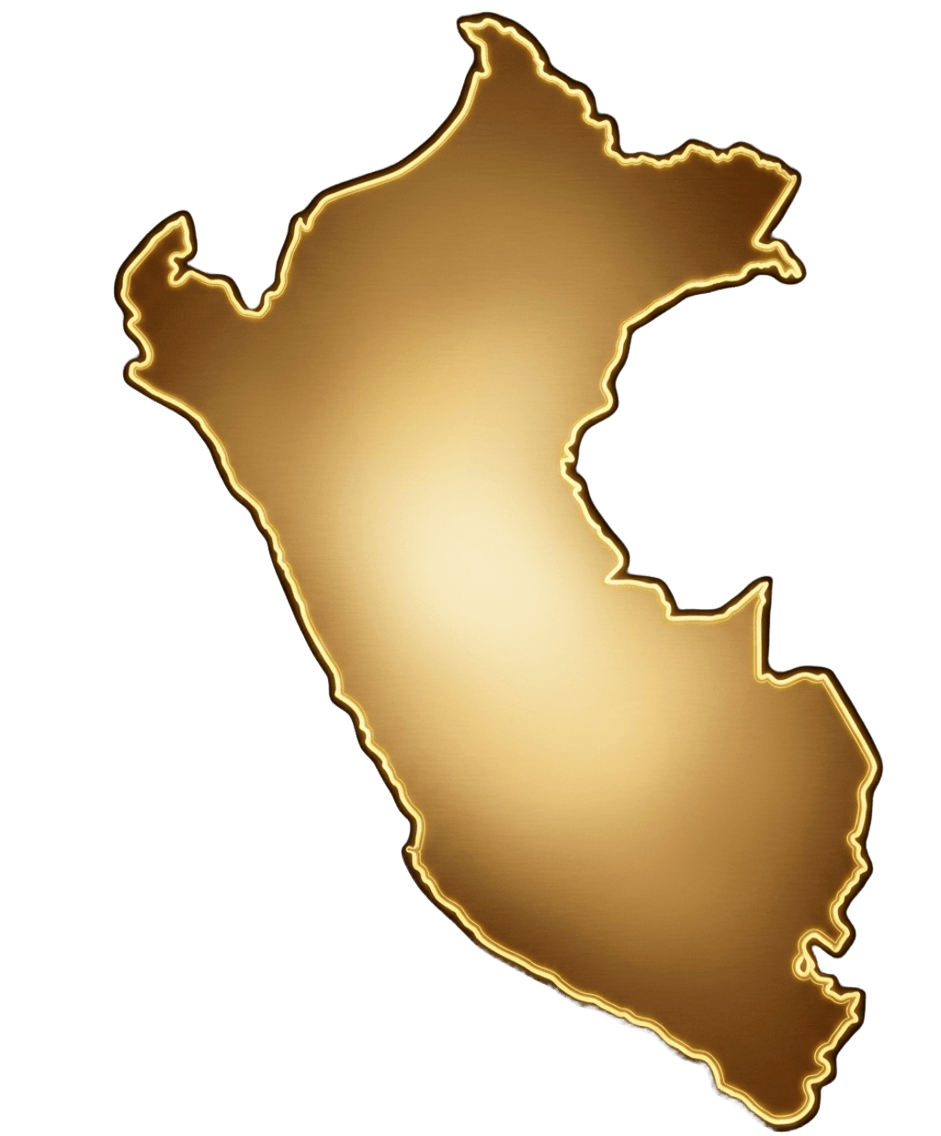
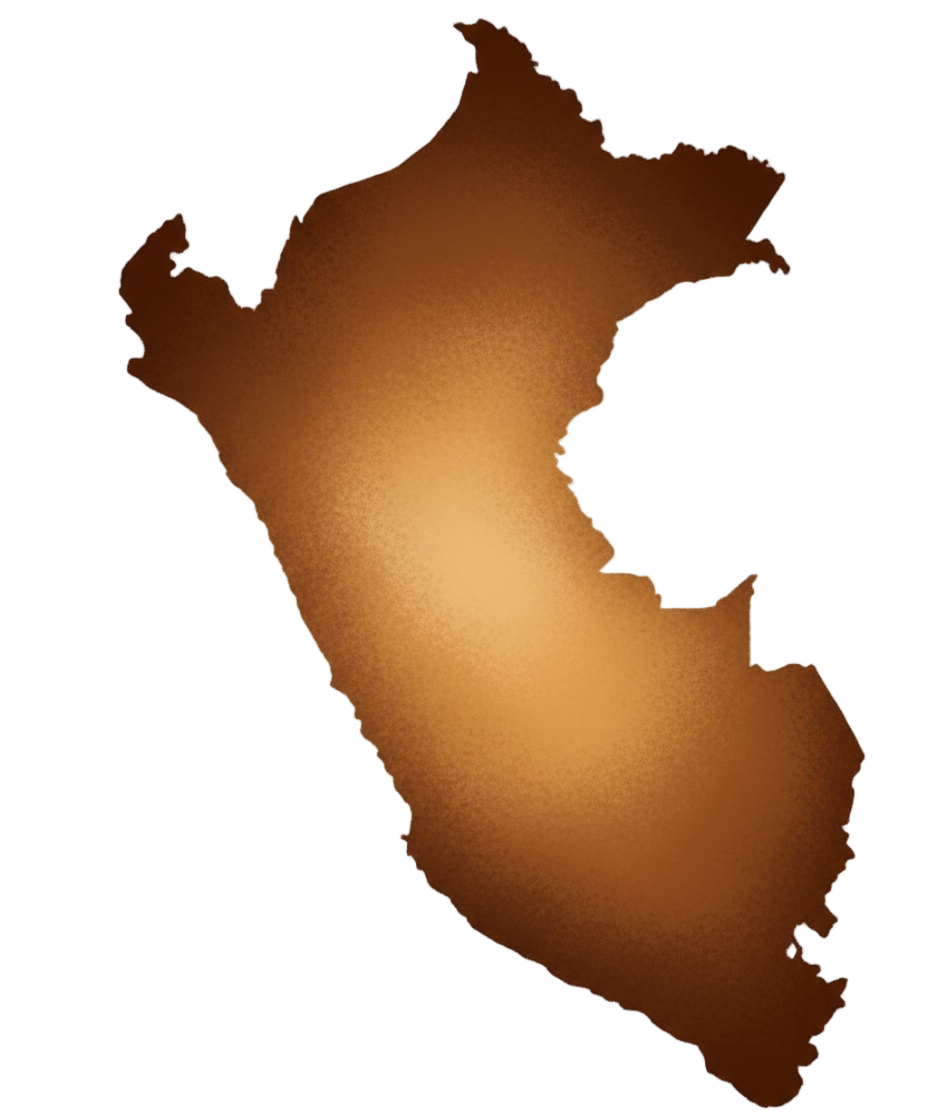
c

diff --git a/src/pages/home/components/Navbar.tsx b/src/pages/home/components/Navbar.tsx
@@ -1,153 +1,219 @@
-import { useState, useEffect } from 'react';
-import { useTranslation } from 'react-i18next';
-import i18n from '@/i18n';
+import { useState, useEffect } from "react";
+import { useTranslation } from "react-i18next";
+import { Link } from "react-router-dom";
+import i18n from "@/i18n";
+
+const LANGUAGES = [
+  { code: "es", label: "ES", flag: "🇵🇪" },
+  { code: "en", label: "EN", flag: "🇬🇧" },
+  { code: "de", label: "DE", flag: "🇩🇪" },
+  { code: "cs", label: "CS", flag: "🇨🇿" },
+];
 
 interface NavbarProps {
   cartCount: number;
   onCartOpen: () => void;
 }
 
-const languages = [
-  { code: 'es', label: 'Español', flag: '🇵🇪' },
-  { code: 'en', label: 'English', flag: '🇬🇧' },
-  { code: 'de', label: 'Deutsch', flag: '🇩🇪' },
-  { code: 'cs', label: 'Čeština', flag: '🇨🇿' },
-];
-
 export default function Navbar({ cartCount, onCartOpen }: NavbarProps) {
   const { t } = useTranslation();
   const [scrolled, setScrolled] = useState(false);
   const [langOpen, setLangOpen] = useState(false);
   const [mobileOpen, setMobileOpen] = useState(false);
-  const [currentLang, setCurrentLang] = useState('es');
+  const [currentLang, setCurrentLang] = useState("es");
 
   useEffect(() => {
-    const handleScroll = () => setScrolled(window.scrollY > 60);
-    window.addEventListener('scroll', handleScroll);
-    return () => window.removeEventListener('scroll', handleScroll);
+    const onScroll = () => setScrolled(window.scrollY > 60);
+    window.addEventListener("scroll", onScroll);
+    return () => window.removeEventListener("scroll", onScroll);
   }, []);
 
-  const handleLang = (code: string) => {
+  const changeLang = (code: string) => {
     i18n.changeLanguage(code);
     setCurrentLang(code);
     setLangOpen(false);
   };
 
   const scrollTo = (id: string) => {
-    document.getElementById(id)?.scrollIntoView({ behavior: 'smooth' });
+    const el = document.getElementById(id);
+    if (el) el.scrollIntoView({ behavior: "smooth" });
     setMobileOpen(false);
   };
 
-  const activeLang = languages.find(l => l.code === currentLang) || languages[0];
+  const navLinks = [
+    { key: "nav.producers", id: "producers" },
+    { key: "nav.catalog", id: "catalog" },
+    { key: "nav.story", id: "story" },
+    { key: "nav.contact", id: "contact" },
+  ];
+
+  const activeLang = LANGUAGES.find((l) => l.code === currentLang) || LANGUAGES[0];
 
   return (
-    <nav className={`fixed top-0 left-0 right-0 z-50 transition-all duration-500 ${scrolled ? 'bg-white shadow-sm' : 'bg-transparent'}`}>
-      <div className="max-w-7xl mx-auto px-4 md:px-8 flex items-center justify-between h-20">
-        {/* Logo */}
-        <a href="/" className="flex items-center gap-3 cursor-pointer">
+    <nav
+      className={`fixed top-0 left-0 right-0 z-30 transition-all duration-300 ${
+        scrolled ? "shadow-sm" : ""
+      }`}
+      style={{
+        background: scrolled ? "rgba(10,26,47,0.97)" : "transparent",
+        backdropFilter: scrolled ? "blur(12px)" : "none",
+      }}
+    >
+      <div className="max-w-7xl mx-auto px-4 md:px-8 h-12 md:h-14 flex items-center justify-between">
+        <button onClick={() => scrollTo("hero")} className="cursor-pointer">
           <img
-            src="https://public.readdy.ai/ai/img_res/1a7d4011-655d-43af-8ac4-7728ff0a084e.png"
-            alt="AYNI Logo"
-            className="h-12 w-auto object-contain"
+            src="/Coya/images/logo.png"
+            alt="COYA"
+            className="h-8 md:h-9 object-contain"
           />
-        </a>
+        </button>
 
-        {/* Desktop Nav */}
         <div className="hidden md:flex items-center gap-8">
-          {[
-            { key: 'nav_catalog', id: 'catalogo' },
-            { key: 'nav_artisans', id: 'productoras' },
-            { key: 'nav_story', id: 'impacto' },
-            { key: 'nav_contact', id: 'contacto' },
-          ].map(item => (
+          {navLinks.map((link) => (
             <button
-              key={item.key}
-              onClick={() => scrollTo(item.id)}
-              className={`text-sm font-medium tracking-wide transition-colors cursor-pointer whitespace-nowrap ${scrolled ? 'text-stone-700 hover:text-amber-700' : 'text-white/90 hover:text-white'}`}
+              key={link.key}
+              onClick={() => scrollTo(link.id)}
+              className="text-sm font-medium cursor-pointer transition-colors whitespace-nowrap"
+              style={{ color: "#F5E6D3", fontFamily: "'Jost', sans-serif", fontSize: "16px", fontWeight: 500, letterSpacing: "0.04em" }}
             >
-              {t(item.key)}
+              {t(link.key)}
             </button>
           ))}
         </div>
 
-        {/* Right Actions */}
-        <div className="flex items-center gap-4">
-          {/* Language Selector */}
+        {/* Empresas link */}
+        <Link
+          to="/empresas"
+          className="hidden md:flex items-center gap-1.5 px-4 py-1.5 rounded-full text-xs font-bold cursor-pointer transition-all whitespace-nowrap"
+          style={{
+            background: "rgba(255,255,255,0.10)",
+            color: "#F5E6D3",
+            border: "1px solid rgba(212,175,122,0.4)",
+            fontFamily: "'Jost', sans-serif",
+            letterSpacing: "0.06em",
+          }}
+        >
+          <i className="ri-building-line" style={{ fontSize: "12px" }} />
+          EMPRESAS
+        </Link>
+
+        {/* Flags — desktop */}
+        <div className="hidden md:flex items-center gap-2 animate-flag-float">
+          <img
+            src="https://flagcdn.com/w40/pe.png"
+            alt="Peru"
+            className="w-9 h-6 rounded-sm object-cover shadow-sm"
+          />
+
+          <img
+            src="https://flagcdn.com/w40/cz.png"
+            alt="Czech Republic"
+            className="w-9 h-6 rounded-sm object-cover shadow-sm"
+          />
+        </div>
+
+        <div className="flex items-center gap-3">
           <div className="relative">
             <button
               onClick={() => setLangOpen(!langOpen)}
-              className={`flex items-center gap-2 text-sm font-medium cursor-pointer whitespace-nowrap transition-colors ${scrolled ? 'text-stone-700 hover:text-amber-700' : 'text-white/90 hover:text-white'}`}
+              className="flex items-center gap-1.5 px-3 py-1.5 rounded-full text-sm font-semibold cursor-pointer transition-all whitespace-nowrap"
+              style={{
+                background: "rgba(255,255,255,0.12)",
+                color: "#F5E6D3",
+                fontFamily: "'Jost', sans-serif",
+              }}
             >
               <span>{activeLang.flag}</span>
-              <span className="hidden sm:inline">{activeLang.code.toUpperCase()}</span>
-              <i className="ri-arrow-down-s-line text-xs"></i>
+              <span>{activeLang.label}</span>
+              <i className="ri-arrow-down-s-line text-xs" />
             </button>
             {langOpen && (
-              <div className="absolute right-0 top-full mt-2 bg-white rounded-xl shadow-lg border border-stone-100 overflow-hidden w-44 z-50">
-                {languages.map(lang => (
+              <div
+                className="absolute right-0 top-full mt-2 rounded-xl overflow-hidden shadow-lg z-50"
+                style={{ background: "#FFFDF9", minWidth: "120px" }}
+              >
+                {LANGUAGES.map((lang) => (
                   <button
                     key={lang.code}
-                    onClick={() => handleLang(lang.code)}
-                    className={`w-full flex items-center gap-3 px-4 py-3 text-sm cursor-pointer transition-colors hover:bg-amber-50 ${currentLang === lang.code ? 'bg-amber-50 text-amber-700 font-medium' : 'text-stone-700'}`}
+                    onClick={() => changeLang(lang.code)}
+                    className="w-full flex items-center gap-2 px-4 py-2.5 text-sm cursor-pointer transition-colors hover:bg-amber-50 whitespace-nowrap"
+                    style={{ color: currentLang === lang.code ? "#C17A5C" : "#2C1810" }}
                   >
                     <span>{lang.flag}</span>
-                    <span>{lang.label}</span>
+                    <span className="font-medium">{lang.label}</span>
+                    {currentLang === lang.code && <i className="ri-check-line ml-auto text-xs" />}
                   </button>
                 ))}
               </div>
             )}
           </div>
 
-          {/* Cart */}
           <button
             onClick={onCartOpen}
-            className={`relative flex items-center gap-2 cursor-pointer transition-colors whitespace-nowrap ${scrolled ? 'text-stone-700 hover:text-amber-700' : 'text-white/90 hover:text-white'}`}
+            className="relative w-10 h-10 flex items-center justify-center rounded-full cursor-pointer transition-all"
+            style={{
+              background: "rgba(255,255,255,0.12)",
+              color: "#F5E6D3",
+            }}
           >
-            <div className="w-6 h-6 flex items-center justify-center">
-              <i className="ri-shopping-bag-line text-xl"></i>
-            </div>
+            <i className="ri-shopping-cart-line text-lg" />
             {cartCount > 0 && (
-              <span className="absolute -top-2 -right-2 bg-amber-600 text-white text-xs rounded-full w-5 h-5 flex items-center justify-center font-bold">
+              <span
+                className="absolute -top-1 -right-1 w-5 h-5 flex items-center justify-center rounded-full text-xs font-bold"
+                style={{ background: "#C17A5C", color: "#FFFDF9" }}
+              >
                 {cartCount}
               </span>
             )}
           </button>
 
-          {/* Mobile Menu */}
+          {/* Flags — mobile, always visible */}
+          <div className="md:hidden flex items-center gap-1.5 animate-flag-float">
+            <img
+              src="https://flagcdn.com/w40/pe.png"
+              alt="Peru"
+              className="w-6 h-4 rounded-sm object-cover shadow-sm"
+            />
+
+            <img
+              src="https://flagcdn.com/w40/cz.png"
+              alt="Czech Republic"
+              className="w-6 h-4 rounded-sm object-cover shadow-sm"
+            />
+          </div>
+
           <button
             onClick={() => setMobileOpen(!mobileOpen)}
-            className={`md:hidden cursor-pointer transition-colors ${scrolled ? 'text-stone-700' : 'text-white'}`}
+            className="md:hidden w-10 h-10 flex items-center justify-center rounded-full cursor-pointer"
+            style={{ color: "#F5E6D3" }}
           >
-            <div className="w-6 h-6 flex items-center justify-center">
-              <i className={`text-xl ${mobileOpen ? 'ri-close-line' : 'ri-menu-line'}`}></i>
-            </div>
+            <i className={`text-xl ${mobileOpen ? "ri-close-line" : "ri-menu-line"}`} />
           </button>
         </div>
       </div>
 
-      {/* Mobile Menu */}
       {mobileOpen && (
-        <div className="md:hidden bg-white border-t border-stone-100 px-4 py-4 flex flex-col gap-4">
-          {[
-            { key: 'nav_catalog', id: 'catalogo' },
-            { key: 'nav_artisans', id: 'productoras' },
-            { key: 'nav_story', id: 'impacto' },
-            { key: 'nav_contact', id: 'contacto' },
-          ].map(item => (
+        <div className="md:hidden px-4 pb-4" style={{ background: "rgba(10,26,47,0.97)" }}>
+          {navLinks.map((link) => (
             <button
-              key={item.key}
-              onClick={() => scrollTo(item.id)}
-              className="text-stone-700 text-sm font-medium text-left cursor-pointer hover:text-amber-700 transition-colors"
+              key={link.key}
+              onClick={() => scrollTo(link.id)}
+              className="w-full text-left py-3 text-sm cursor-pointer whitespace-nowrap"
+              style={{ color: "#F5E6D3", fontFamily: "'Jost', sans-serif", borderColor: "rgba(212,175,122,0.25)" }}
             >
-              {t(item.key)}
+              {t(link.key)}
             </button>
           ))}
+          <Link
+            to="/empresas"
+            onClick={() => setMobileOpen(false)}
+            className="flex items-center gap-2 py-3 text-sm font-bold cursor-pointer whitespace-nowrap"
+            style={{ color: "#D4AF7A", fontFamily: "'Jost', sans-serif" }}
+          >
+            <i className="ri-building-line" />
+            Para Empresas
+          </Link>
         </div>
-      )}
-
-      {/* Overlay for lang dropdown */}
-      {langOpen && (
-        <div className="fixed inset-0 z-40" onClick={() => setLangOpen(false)}></div>
       )}
     </nav>
   );

diff --git a/src/pages/home/components/HeroSection.tsx b/src/pages/home/components/HeroSection.tsx
@@ -13,33 +13,21 @@ interface Slide {
 const slides: Slide[] = [
   {
     id: 1,
-    type: 'video',
-    src: '/AndesdelSol/videos/hero1.mp4',
+    type: 'image',
+    src: "/AndesdelSol/images/fondo(2).jpg",
     label: 'Tejidos Ancestrales',
   },
   {
     id: 2,
     type: 'image',
-    src: "/AndesdelSol/images/hero2.jpeg",
+    src: "/AndesdelSol/images/fondo3.jpg",
     label: 'Cerámica Viva',
   },
   {
     id: 3,
     type: 'image',
-    src: "/AndesdelSol/images/hero3.jpeg",
+    src: "/AndesdelSol/images/fondos.jpg",
     label: 'Comunidad y Fuerza',
-  },
-  {
-    id: 4,
-    type: 'image',
-    src: "/AndesdelSol/images/hero4.jpeg",
-    label: 'Arte con Propósito',
-  },
-  {
-    id: 5,
-    type: 'image',
-    src: "/AndesdelSol/images/hero5.jpeg",
-    label: 'Colores del Ande',
   },
 ];
 
@@ -62,17 +50,7 @@ export default function HeroSection() {
   };
 
   useEffect(() => {
-    const currentSlide = slides[current];
-    if (currentSlide.type === 'video') {
-      // For video slides, advance after video ends or after 12s max
-      startTimer(12000);
-      if (videoRef.current) {
-        videoRef.current.currentTime = 0;
-        videoRef.current.play().catch(() => {});
-      }
-    } else {
-      startTimer(6000);
-    }
+    startTimer(8000);
     return () => { if (timerRef.current) clearInterval(timerRef.current); };
   }, [current]);
 
@@ -135,24 +113,24 @@ export default function HeroSection() {
 
             {/* Title */}
             <h1 className="text-white font-black leading-none mb-4" style={{ fontFamily: "'Playfair Display', serif" }}>
-              <span className="block text-4xl md:text-6xl uppercase" style={{ fontFamily: "'Inter', sans-serif", fontWeight: 800 }}>
+              <span className="block text-6xl md:text-8xl uppercase" style={{ fontFamily: "'Inter', sans-serif", fontWeight: 800 }}>
                 <span style={{ color: "#141414" }}>Inti</span><span style={{ color: "#D4A72C" }}>Qori</span>
               </span>
               <span className="flex items-center gap-2 mt-1 mb-1">
                 <span style={{ width: "8px", height: "8px", borderRadius: "9999px", backgroundColor: "#D4A72C", display: "inline-block" }} />
                 <span
-                  className="text-xs md:text-sm font-semibold tracking-[0.35em] uppercase"
+                  className="text-sm md:text-base font-semibold tracking-[0.35em] uppercase"
                   style={{ fontFamily: "'Inter', sans-serif", color: "#141414" }}
                 >
                   Artesania
                 </span>
               </span>
-              <span className="block text-2xl md:text-4xl mt-2">{t('hero_title2')}</span>
-              <span className="block text-2xl md:text-4xl">{t('hero_title3')}</span>
+              <span className="block text-xl md:text-3xl mt-2">{t('hero_title2')}</span>
+              <span className="block text-xl md:text-3xl">{t('hero_title3')}</span>
             </h1>
 
             {/* Subtitle */}
-            <p className="text-white/85 text-base md:text-lg leading-relaxed mb-8 max-w-xl">
+            <p className="text-white/85 font-bold text-xs md:text-sm leading-relaxed mb-8 max-w-xl">
               {t('hero_subtitle')}
             </p>
 
